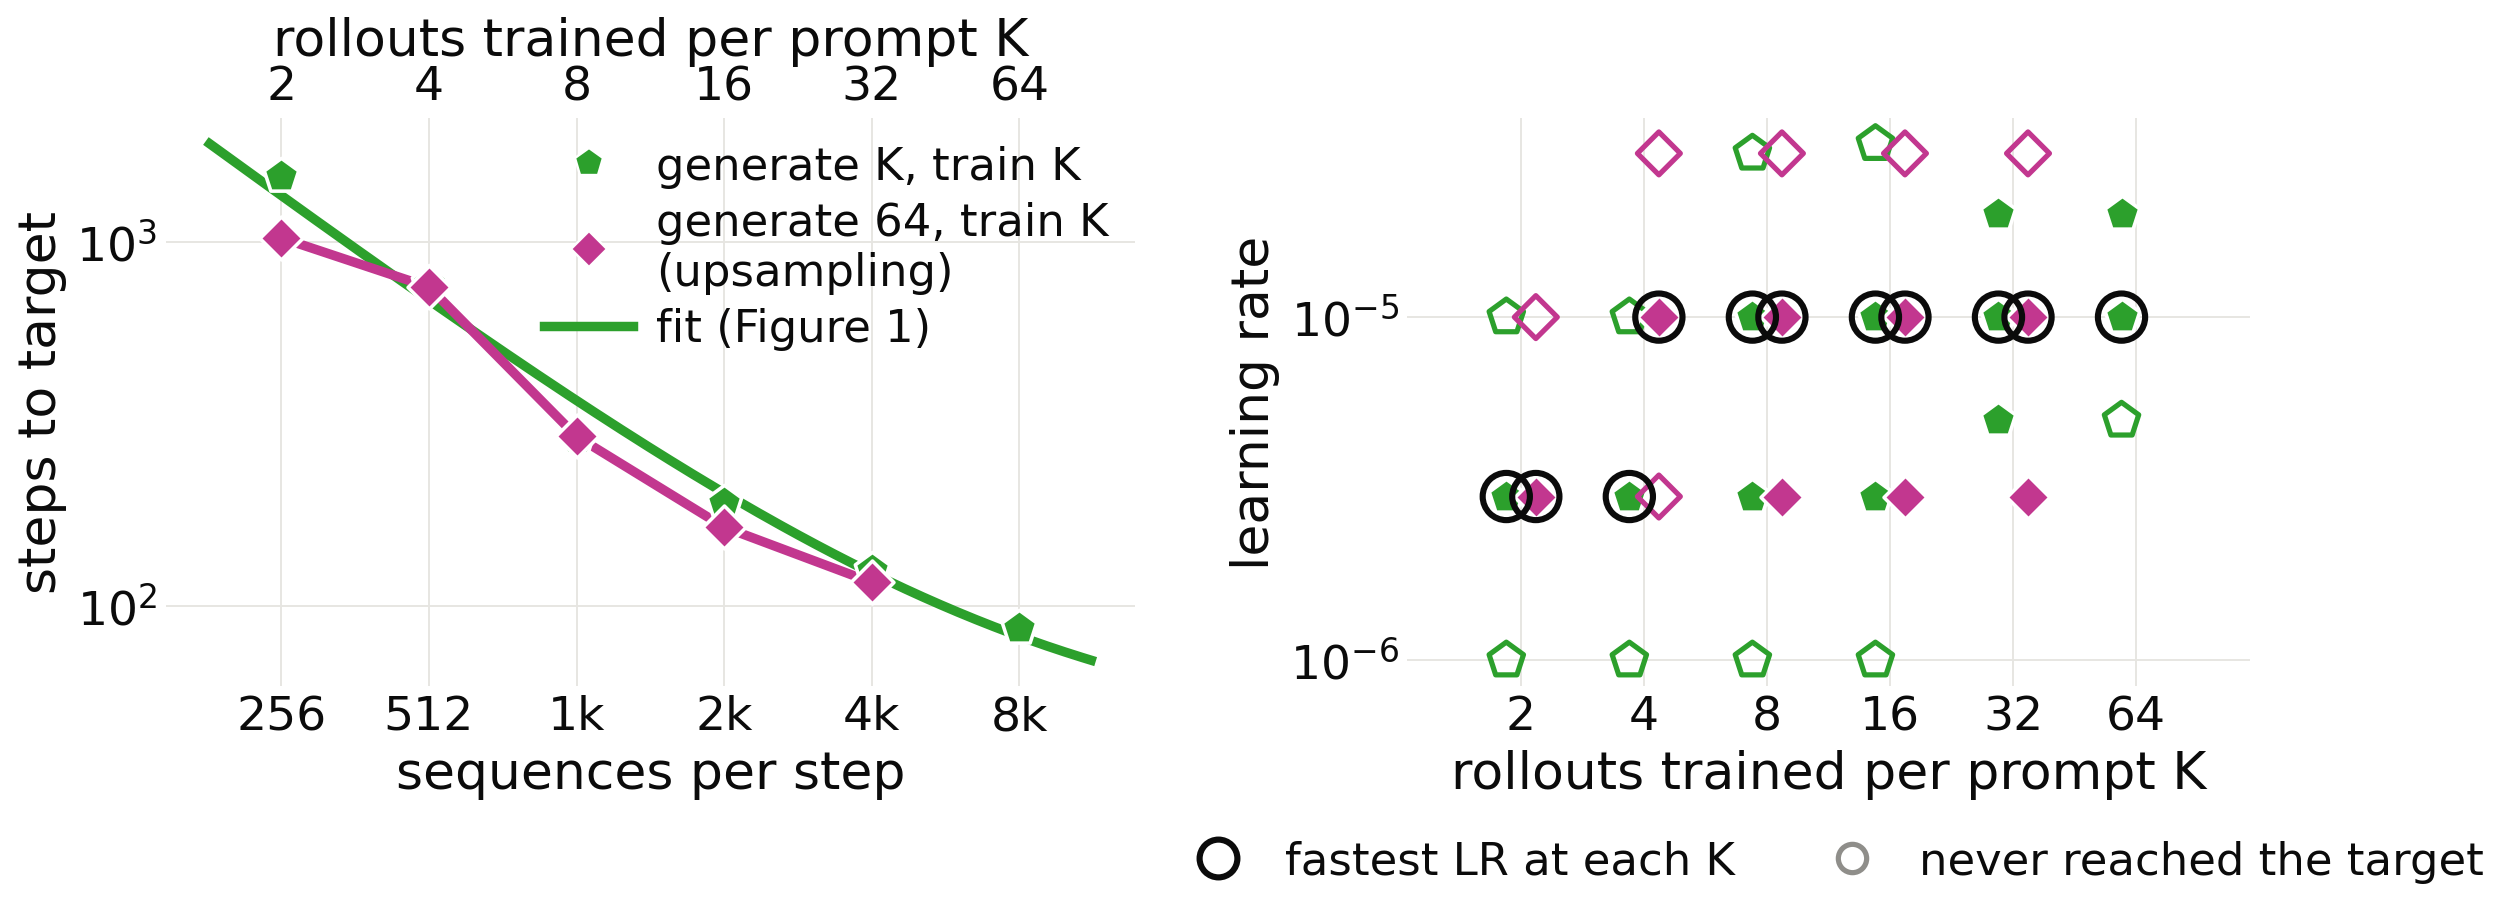
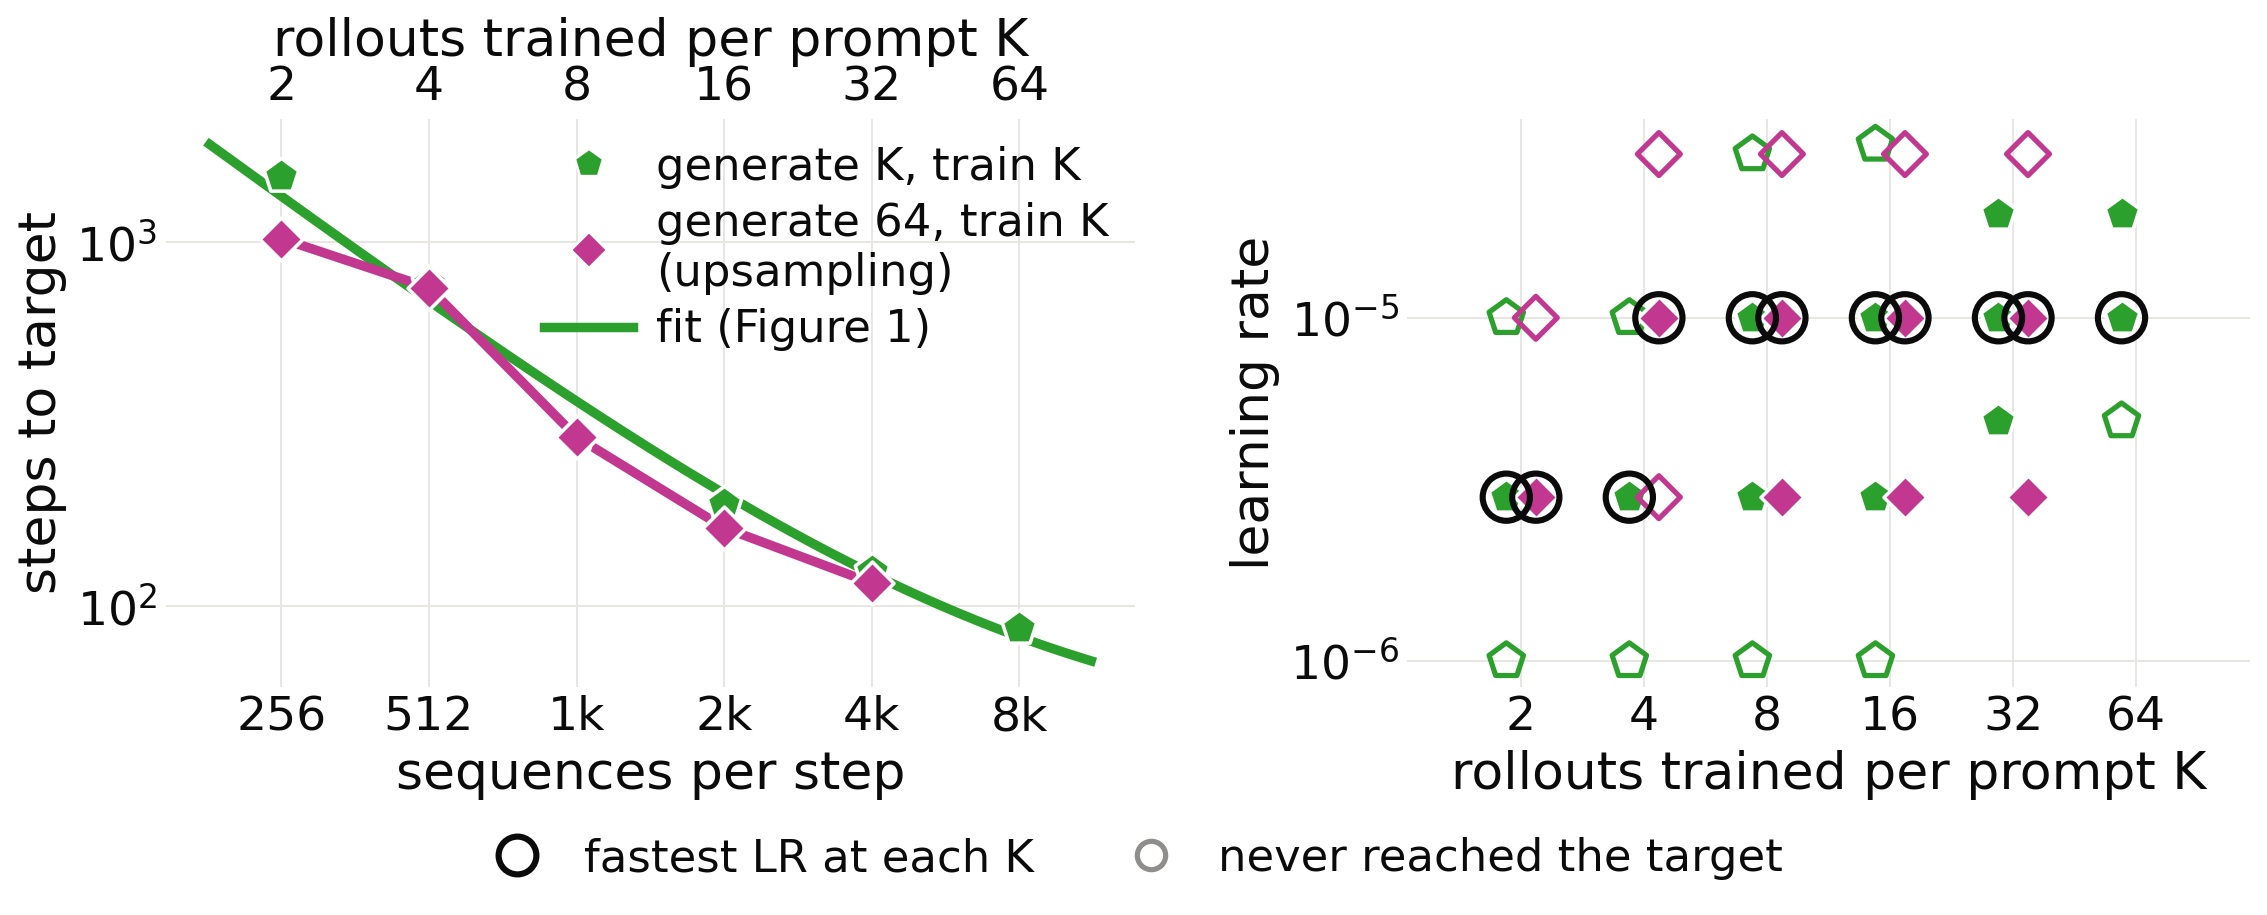
plots: upsampling figure legend centred under the figure
Claude-Session: https://claude.ai/code/session_01W75chJn3avZzxyPZDywWSf

diff --git a/plots/scripts/plot_rollouts_vs_downsample_clean.py b/plots/scripts/plot_rollouts_vs_downsample_clean.py
@@ -212,8 +212,8 @@ legend_r = [Line2D([], [], marker="o", ls="", ms=16, mfc="none", mec=INK, mew=2.
             Line2D([], [], marker="o", ls="", ms=12, mfc="none", mec=MISSING, mew=2.2, label="never reached the target")]
 if (roll_lad["verdict"] == "inconclusive").any() or (ds_lad["verdict"] == "inconclusive").any():
     legend_r.append(Line2D([], [], marker="x", ls="", ms=11, color=MISSING, mew=2.2, label="too early to tell"))
-axr.legend(handles=legend_r, loc="upper center", bbox_to_anchor=(0.5, -0.2), ncol=len(legend_r), frameon=False, fontsize=LEGEND, labelcolor=INK,
-           handletextpad=0.5, columnspacing=1.6)   # directly under the right panel
+fig.legend(handles=legend_r, loc="upper center", bbox_to_anchor=(0.5, 0.08), ncol=len(legend_r), frameon=False, fontsize=LEGEND, labelcolor=INK,
+           handletextpad=0.5, columnspacing=1.6)   # centred under the whole figure, so it adds no width on the right
 fig.savefig(png_out, dpi=170, facecolor=SURFACE, bbox_inches="tight")
 pdf_dir = os.path.join(os.path.dirname(os.path.dirname(os.path.abspath(png_out))), "paper")   # plots/paper/
 os.makedirs(pdf_dir, exist_ok=True)
